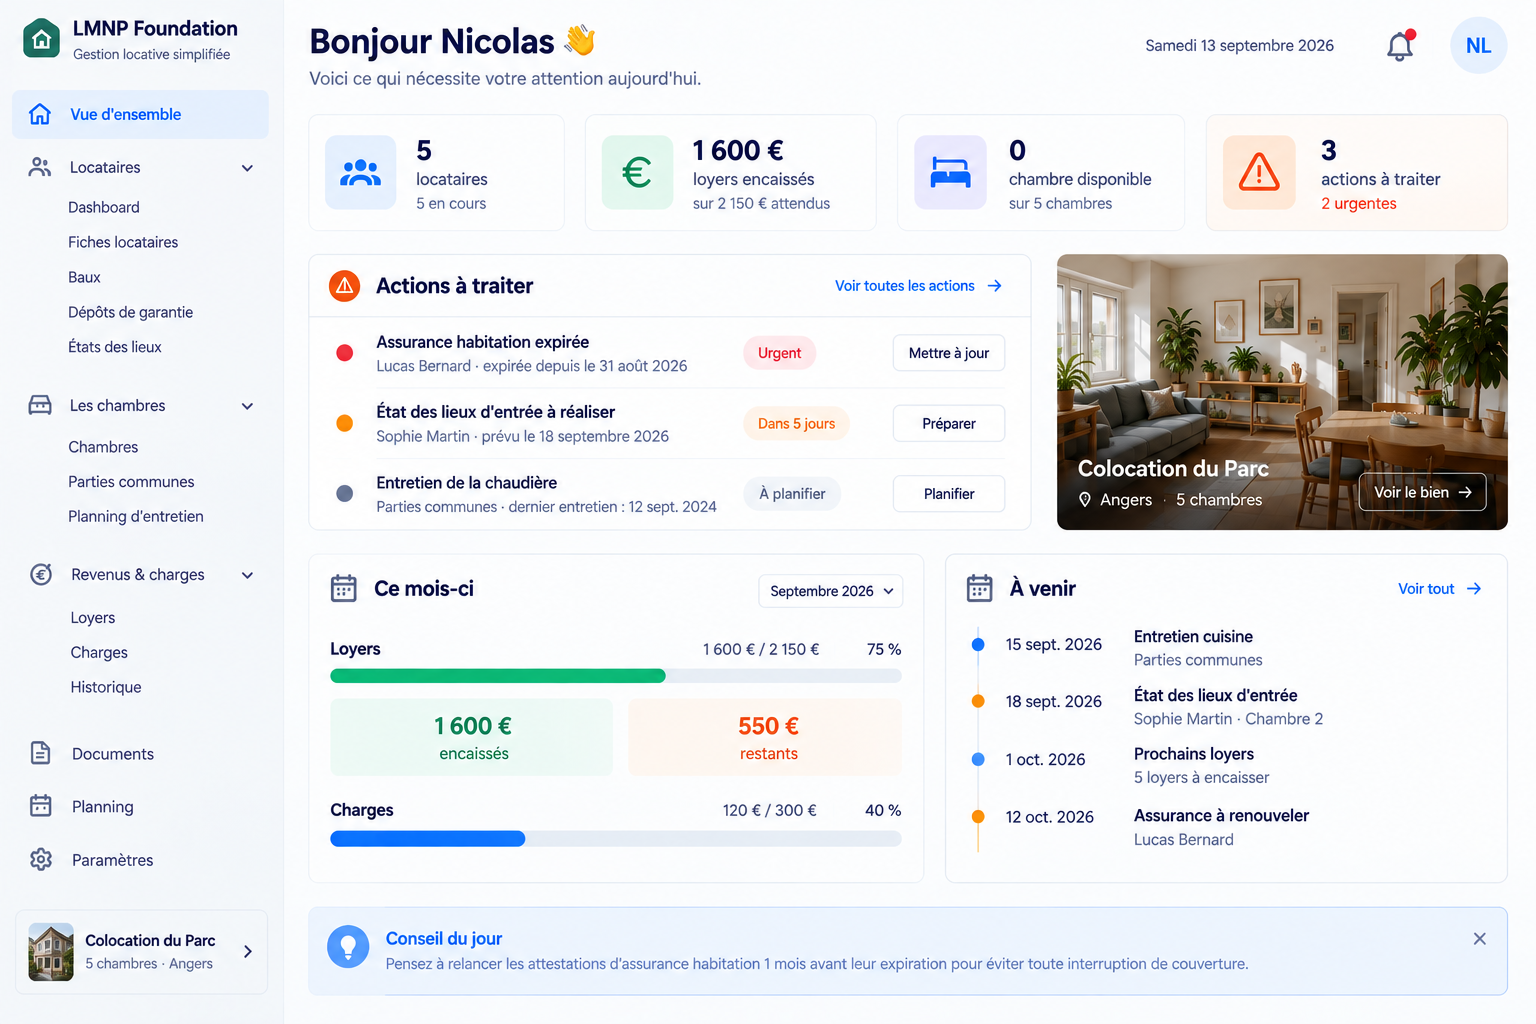
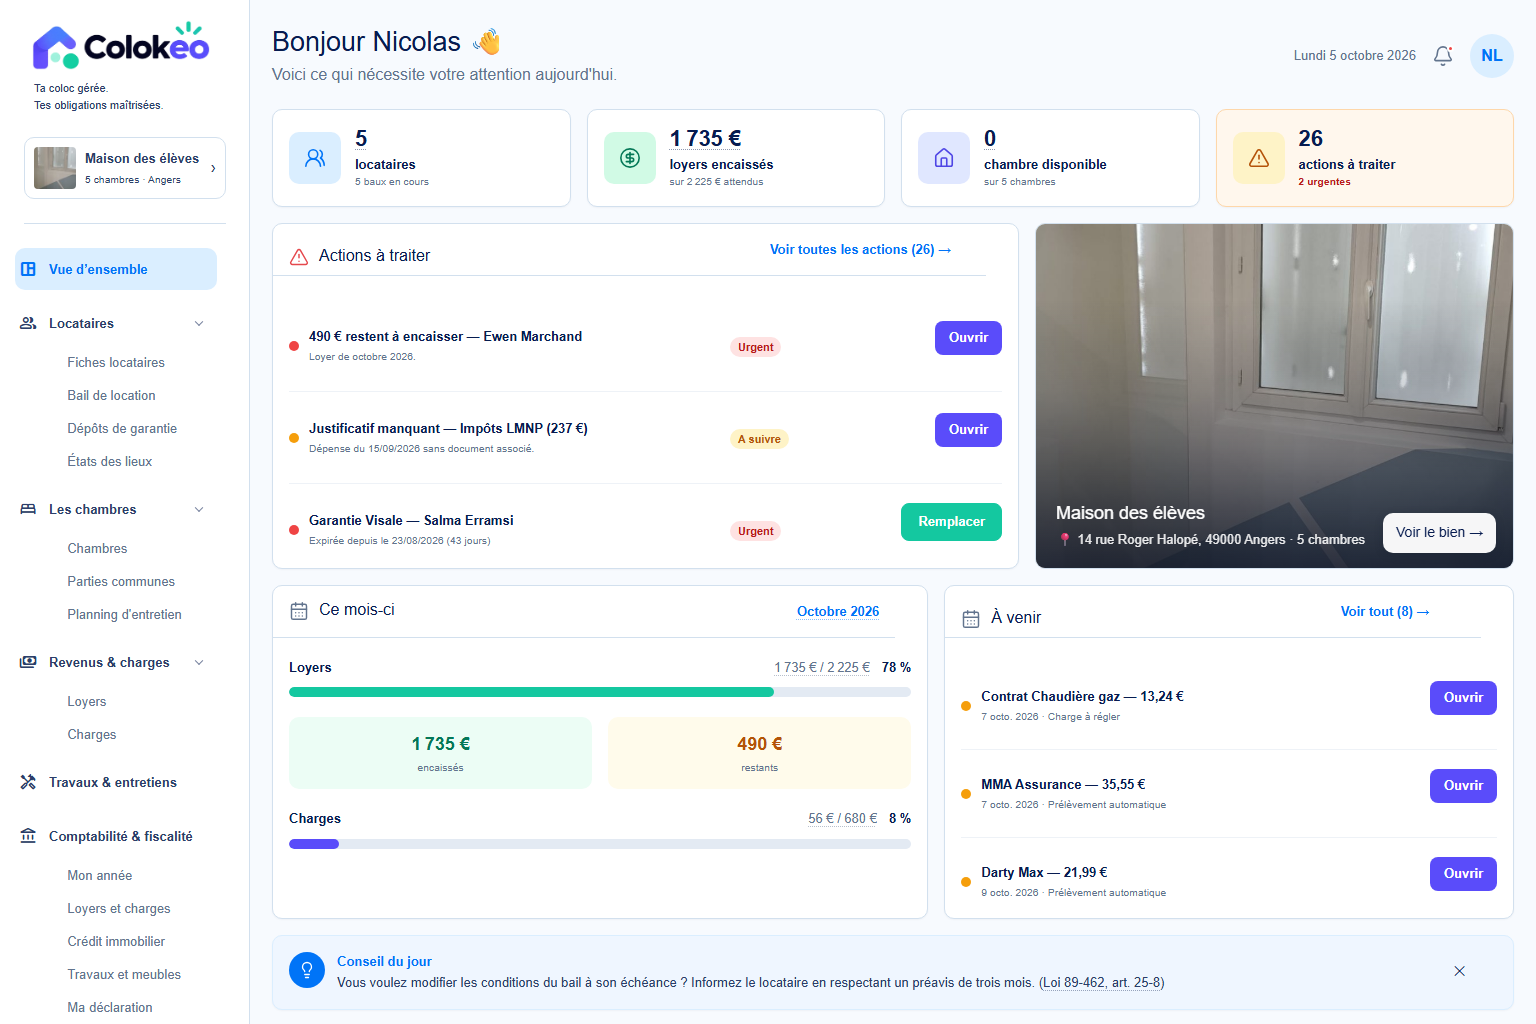
Nouvelles captures de l'application (Colokéo), données sensibles floutées

diff --git a/index.html b/index.html
@@ -3,7 +3,7 @@
 <main><section class="hero"><div class="hero-copy"><p class="eyebrow">LA COLOCATION, AVEC L’ESPRIT LIBRE</p><h1>Voir clair. <br><span>Garder la main.</span> <br>Louer sereinement.</h1><p class="lead">Colokéo automatise la gestion de votre colocation et veille à sa conformité juridique et fiscale, pour disposer d’un dossier solide quand vous en avez vraiment besoin.</p><div class="actions"><a class="button" href="#demo">Découvrir l’interface</a><a class="text-link" href="#fonctionnalites">Voir comment ça fonctionne</a></div><p class="fine">Pensé pour les bailleurs de colocations meublées.</p></div><div class="hero-product real-product"><button class="screen-open" data-screen-open="1" aria-label="Agrandir la vue d’ensemble"><img src="assets/screens/screen-1.png" width="1536" height="1024" alt="Vue d’ensemble de Colokéo : loyers encaissés, actions à traiter et calendrier"></button><div class="real-caption"><span>VUE D’ENSEMBLE</span><b>Vos priorités, dès l’ouverture.</b><button data-screen-open="1">Agrandir</button></div></div></section>
 <div class="promise-strip"><span>Un bien. Plusieurs locataires.</span><b>Une seule vue pour garder le cap.</b><span>Loyers · Documents · Obligations</span></div>
 <section id="fonctionnalites" class="section"><p class="eyebrow">MOINS D’ADMINISTRATIF, PLUS DE VISIBILITÉ</p><h2>Tout ce qui s’accumule.<br><span>Enfin réuni.</span></h2><div class="feature-grid"><article><span class="number">01 / LOYERS</span><h3>Le bon montant.<br>Le bon mois.</h3><p>Retrouvez les loyers par locataire, les paiements enregistrés et les documents associés. Une vue claire pour repérer ce qui reste à traiter.</p><a href="#demo" data-screen-link="14">Explorer les loyers</a></article><article><span class="number">02 / LOCATAIRES</span><h3>Un dossier qui suit<br>chaque colocataire.</h3><p>État civil, bail, assurance, garant et Visale : centralisez les informations utiles et préparez les attestations CAF sans repartir de zéro.</p><a href="#demo" data-screen-link="3">Explorer les dossiers locataires</a></article><article><span class="number">03 / VOTRE BIEN</span><h3>Vos documents.<br>Des données utiles.</h3><p>Le passeport du bien rassemble ses informations. L’analyse documentaire aide à extraire les données, que vous vérifiez avant de les appliquer.</p><a href="#demo" data-screen-link="17">Explorer les documents</a></article></div></section>
-<section class="demo-section real-gallery" id="demo"><div class="demo-heading"><div><p class="eyebrow">EXPLOREZ COLOKÉO</p><h2>Une interface qui met<br>de l’ordre dans votre coloc.</h2></div><p>Du premier dossier au suivi des loyers.<br>Découvrez les écrans du produit.</p></div><div class="screen-selector" aria-label="Choisir un écran"><button data-screen="1" aria-pressed="true" class="selected">Vue d’ensemble</button><button data-screen="2" aria-pressed="false" class="">Tableau de bord des locataires</button><button data-screen="3" aria-pressed="false" class="">Fiche locataire</button><button data-screen="4" aria-pressed="false" class="">État civil</button><button data-screen="5" aria-pressed="false" class="">Assurance habitation</button><button data-screen="6" aria-pressed="false" class="">Garanties</button><button data-screen="7" aria-pressed="false" class="">Documents du locataire</button><button data-screen="8" aria-pressed="false" class="">Baux de location</button><button data-screen="9" aria-pressed="false" class="">Dépôt de garantie</button><button data-screen="9-bis" aria-pressed="false" class="">État des lieux</button><button data-screen="10" aria-pressed="false" class="">Tableau de bord des chambres</button><button data-screen="11" aria-pressed="false" class="">Chambres</button><button data-screen="12" aria-pressed="false" class="">Pièces communes</button><button data-screen="13" aria-pressed="false" class="">Planning d’entretien</button><button data-screen="14" aria-pressed="false" class="">Revenus et charges</button><button data-screen="15" aria-pressed="false" class="">Revenus</button><button data-screen="16" aria-pressed="false" class="">Charges</button><button data-screen="17" aria-pressed="false" class="">Documents</button></div><figure class="gallery-frame"><button class="screen-open" id="gallery-open" data-screen-open="1" aria-label="Agrandir l’écran sélectionné"><img id="gallery-image" src="assets/screens/screen-1.png" width="1536" height="1024" alt="Vue d’ensemble"></button><figcaption><div><strong id="gallery-title">Vue d’ensemble</strong><p id="gallery-description">Les loyers, les échéances et les actions prioritaires dans une seule vue.</p></div><button id="gallery-enlarge" data-screen-open="1">Voir en grand</button></figcaption></figure><p class="capture-note">Les captures conservent le nom historique LMNP Foundation.</p></section>
+<section class="demo-section real-gallery" id="demo"><div class="demo-heading"><div><p class="eyebrow">EXPLOREZ COLOKÉO</p><h2>Une interface qui met<br>de l’ordre dans votre coloc.</h2></div><p>Du premier dossier au suivi des loyers.<br>Découvrez les écrans du produit.</p></div><div class="screen-selector" aria-label="Choisir un écran"><button data-screen="1" aria-pressed="true" class="selected">Vue d’ensemble</button><button data-screen="2" aria-pressed="false" class="">Tableau de bord des locataires</button><button data-screen="3" aria-pressed="false" class="">Fiche locataire</button><button data-screen="4" aria-pressed="false" class="">État civil</button><button data-screen="5" aria-pressed="false" class="">Assurance habitation</button><button data-screen="6" aria-pressed="false" class="">Garanties</button><button data-screen="7" aria-pressed="false" class="">Documents du locataire</button><button data-screen="8" aria-pressed="false" class="">Baux de location</button><button data-screen="9" aria-pressed="false" class="">Dépôt de garantie</button><button data-screen="9-bis" aria-pressed="false" class="">État des lieux</button><button data-screen="10" aria-pressed="false" class="">Tableau de bord des chambres</button><button data-screen="11" aria-pressed="false" class="">Chambres</button><button data-screen="12" aria-pressed="false" class="">Pièces communes</button><button data-screen="13" aria-pressed="false" class="">Planning d’entretien</button><button data-screen="14" aria-pressed="false" class="">Revenus et charges</button><button data-screen="15" aria-pressed="false" class="">Revenus</button><button data-screen="16" aria-pressed="false" class="">Charges</button><button data-screen="17" aria-pressed="false" class="">Documents</button></div><figure class="gallery-frame"><button class="screen-open" id="gallery-open" data-screen-open="1" aria-label="Agrandir l’écran sélectionné"><img id="gallery-image" src="assets/screens/screen-1.png" width="1536" height="1024" alt="Vue d’ensemble"></button><figcaption><div><strong id="gallery-title">Vue d’ensemble</strong><p id="gallery-description">Les loyers, les échéances et les actions prioritaires dans une seule vue.</p></div><button id="gallery-enlarge" data-screen-open="1">Voir en grand</button></figcaption></figure><p class="capture-note">Captures de l’application ; les informations personnelles sensibles sont floutées.</p></section>
 <section id="serenite" class="section serenity"><div><p class="eyebrow">UN DOSSIER SOLIDE, AU BON MOMENT</p><h2>Quand un imprévu arrive,<br><span>vos pièces sont déjà là.</span></h2><p class="lead">Un sinistre ou un impayé laisse peu de place à l’improvisation. Colokéo vous aide à suivre les échéances et à retrouver les documents nécessaires.</p><p class="boundary">Le suivi de conformité vous aide à identifier les points à vérifier. La couverture d’un sinistre dépend de votre contrat d’assurance et de ses conditions ; elle n’est pas garantie par le logiciel.</p></div><div class="serenity-list"><article><b>01</b><div><h3>Rassemblez les preuves</h3><p>Retrouvez vos baux, assurances et documents locatifs dans un même dossier.</p></div></article><article><b>02</b><div><h3>Repérez les points d’attention</h3><p>Identifiez les pièces manquantes et les échéances à anticiper.</p></div></article><article><b>03</b><div><h3>Gardez la main</h3><p>Vérifiez les informations extraites avant de les appliquer à votre bien.</p></div></article></div></section>
 <section class="workflow"><div><p class="eyebrow">UNE MÉTHODE SIMPLE</p><h2>De la pile de papiers<br>au dossier exploitable.</h2></div><ol><li><b>1</b><strong>Rassemblez</strong><p>Ajoutez les documents du bien et les pièces de vos locataires.</p></li><li><b>2</b><strong>Vérifiez</strong><p>Contrôlez les données extraites et les informations à compléter.</p></li><li><b>3</b><strong>Pilotez</strong><p>Retrouvez les loyers, les documents et les points à traiter.</p></li></ol></section><section id="tarif" class="pricing"><div><p class="eyebrow">UN BUDGET LISIBLE</p><h2>Votre temps mérite<br>mieux que la paperasse.</h2><p>L’essentiel de votre gestion de colocation,<br>dans un espace unique.</p></div><article class="price-card"><span class="pill">Offre envisagée</span><h3>Colokéo</h3><p class="price">24,90 € <span>/ mois</span></p><p class="fine">Tarif indicatif, à confirmer au lancement.</p><ul><li>Gestion de votre colocation meublée</li><li>Dossiers locataires et documents du bail</li><li>Historique des loyers et quittances</li><li>Passeport du bien et analyse documentaire</li><li>Suivi des obligations et points à vérifier</li></ul><a class="button" href="#demo">Découvrir avant de choisir</a></article></section>
 <section id="questions" class="section faq"><p class="eyebrow">LES QUESTIONS UTILES</p><h2>Avant de vous lancer.</h2><details><summary>À qui s’adresse Colokéo ?</summary><p>Aux bailleurs qui gèrent une colocation meublée et souhaitent centraliser les informations du bien, des locataires et des loyers.</p></details><details><summary>Colokéo garantit-il ma couverture en cas de sinistre ?</summary><p>Non. Colokéo aide à constituer et suivre votre dossier. Votre couverture dépend des garanties, exclusions et conditions de votre contrat. En cas de doute, faites confirmer votre situation par votre assureur.</p></details><details><summary>Les informations extraites de mes documents sont-elles appliquées automatiquement ?</summary><p>Le principe est de garder une étape de vérification : vous contrôlez les données proposées avant de les appliquer au dossier de votre bien.</p></details><details><summary>Est-ce que la démo contient de vrais locataires ?</summary><p>Non. Les noms, paiements, documents et échéances présentés sur ce site sont fictifs.</p></details><details><summary>Puis-je déjà m’abonner ?</summary><p>Cette vitrine présente une première version du produit. Le parcours d’inscription et de paiement sera ouvert une fois l’offre et les conditions de service finalisées.</p></details></section>
